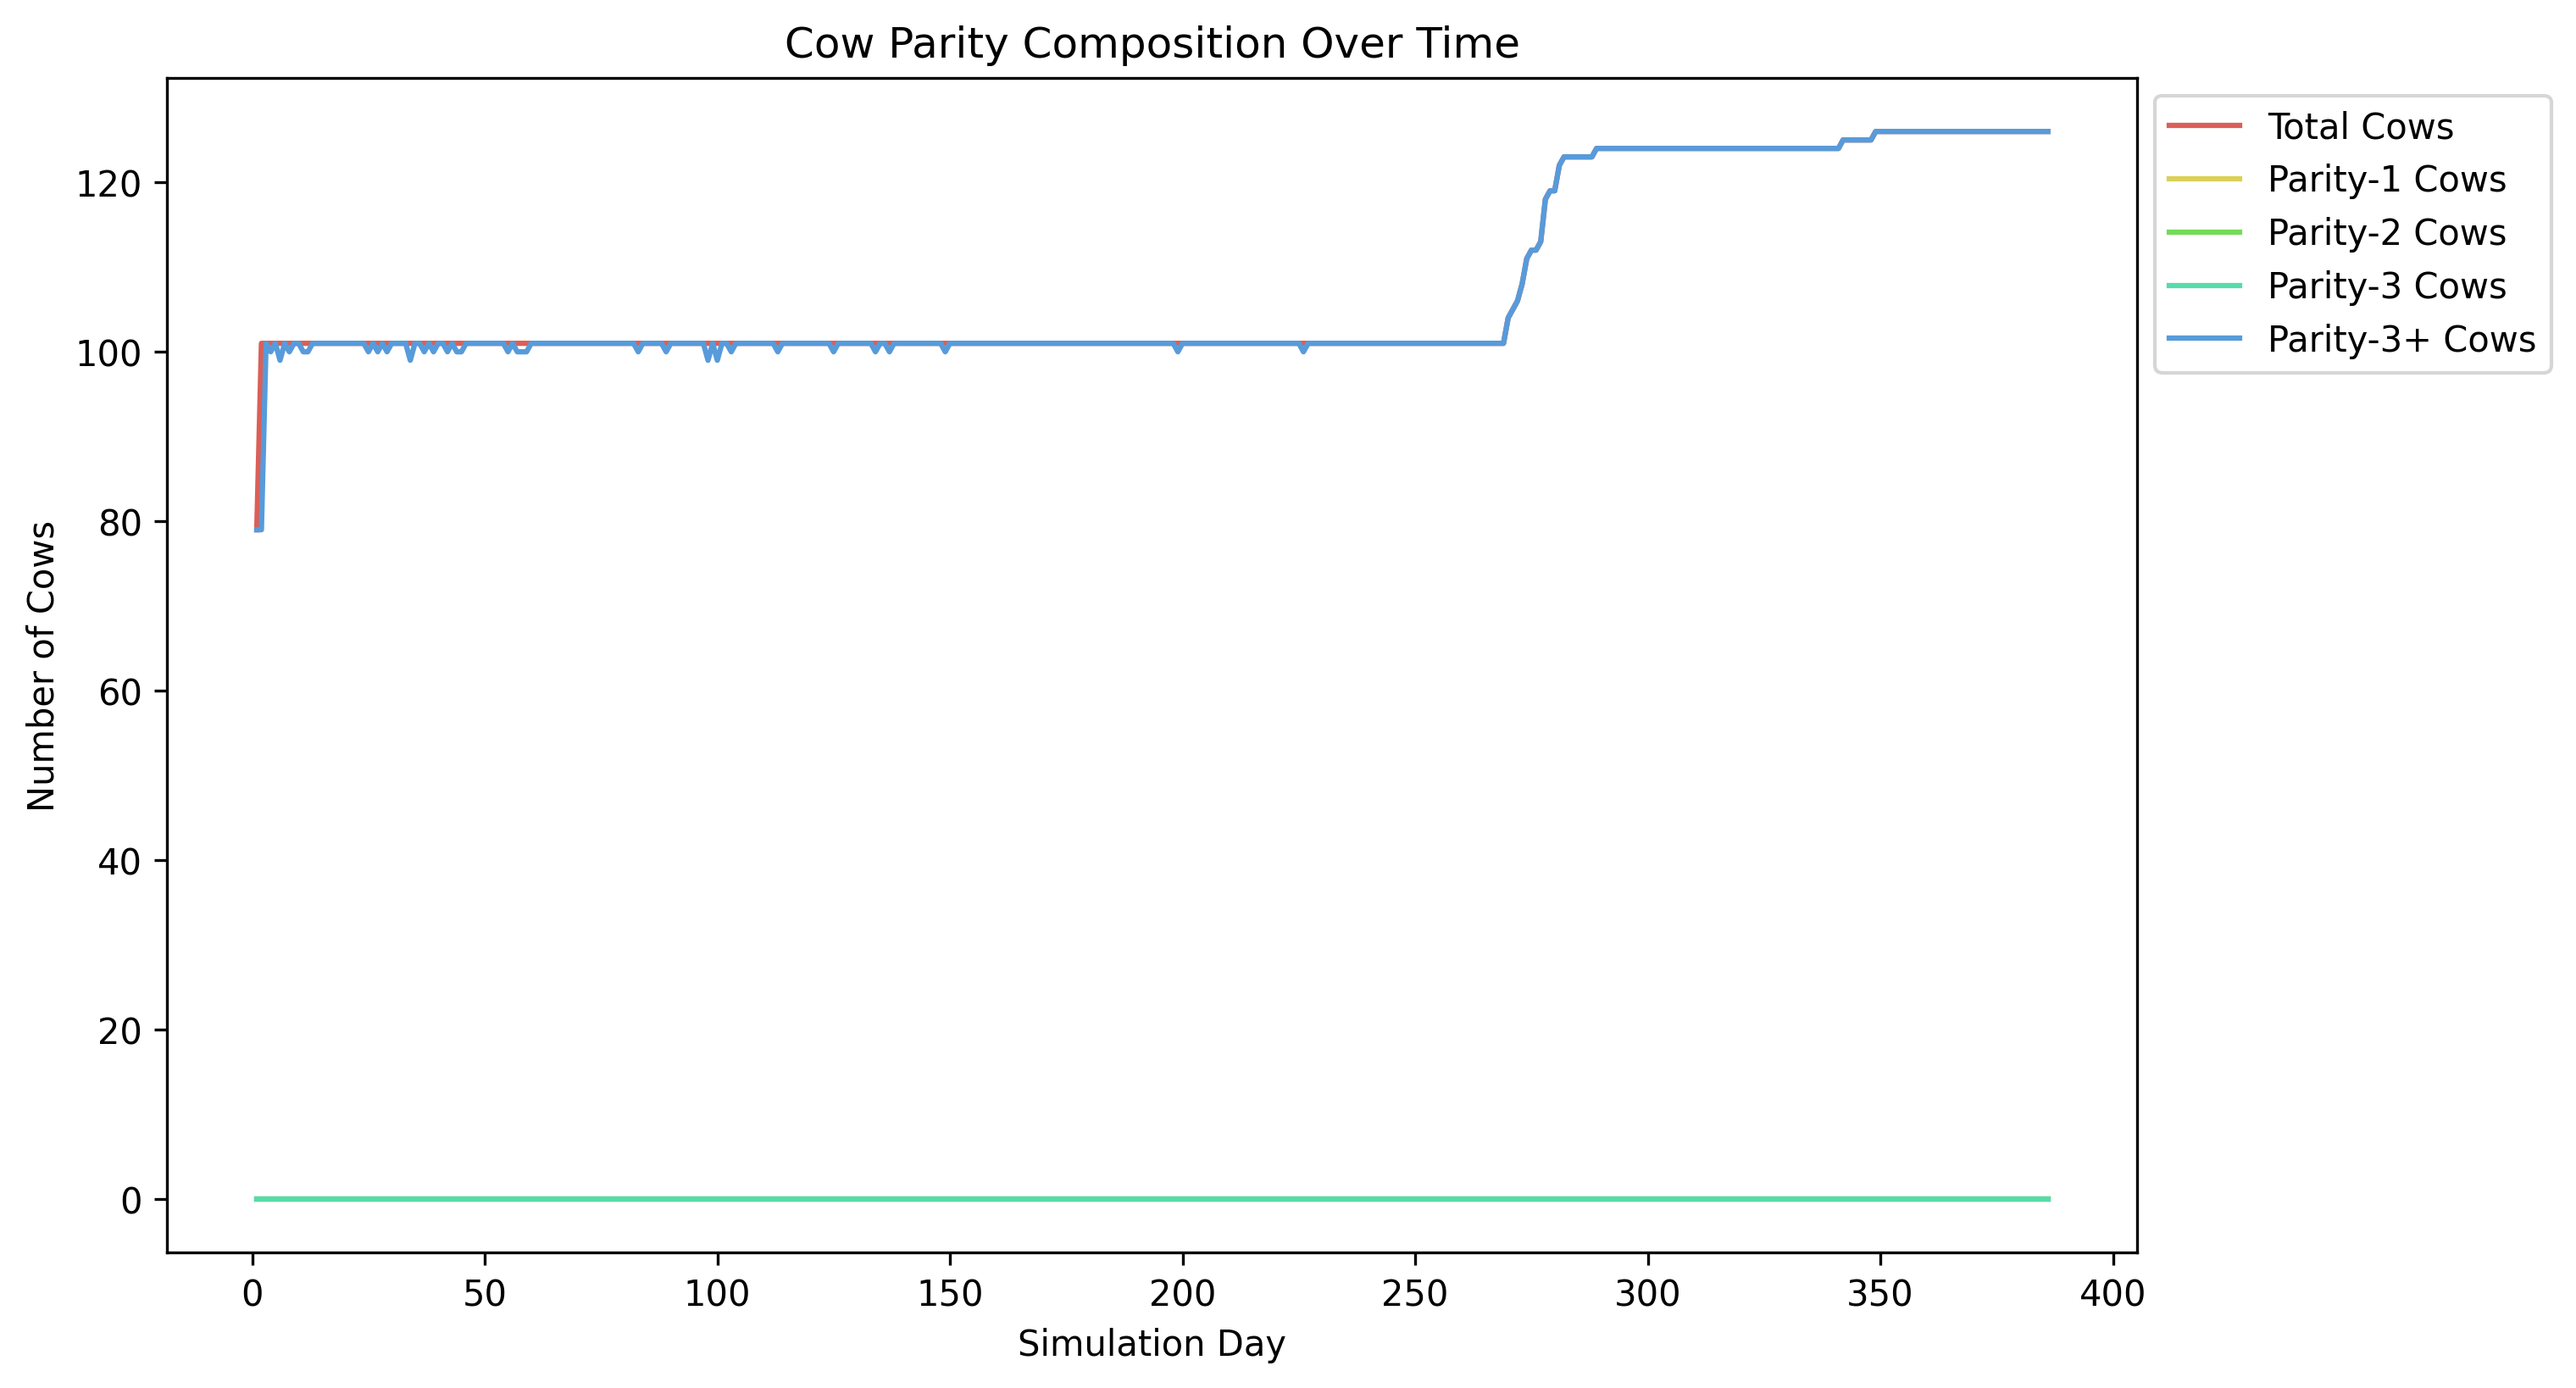
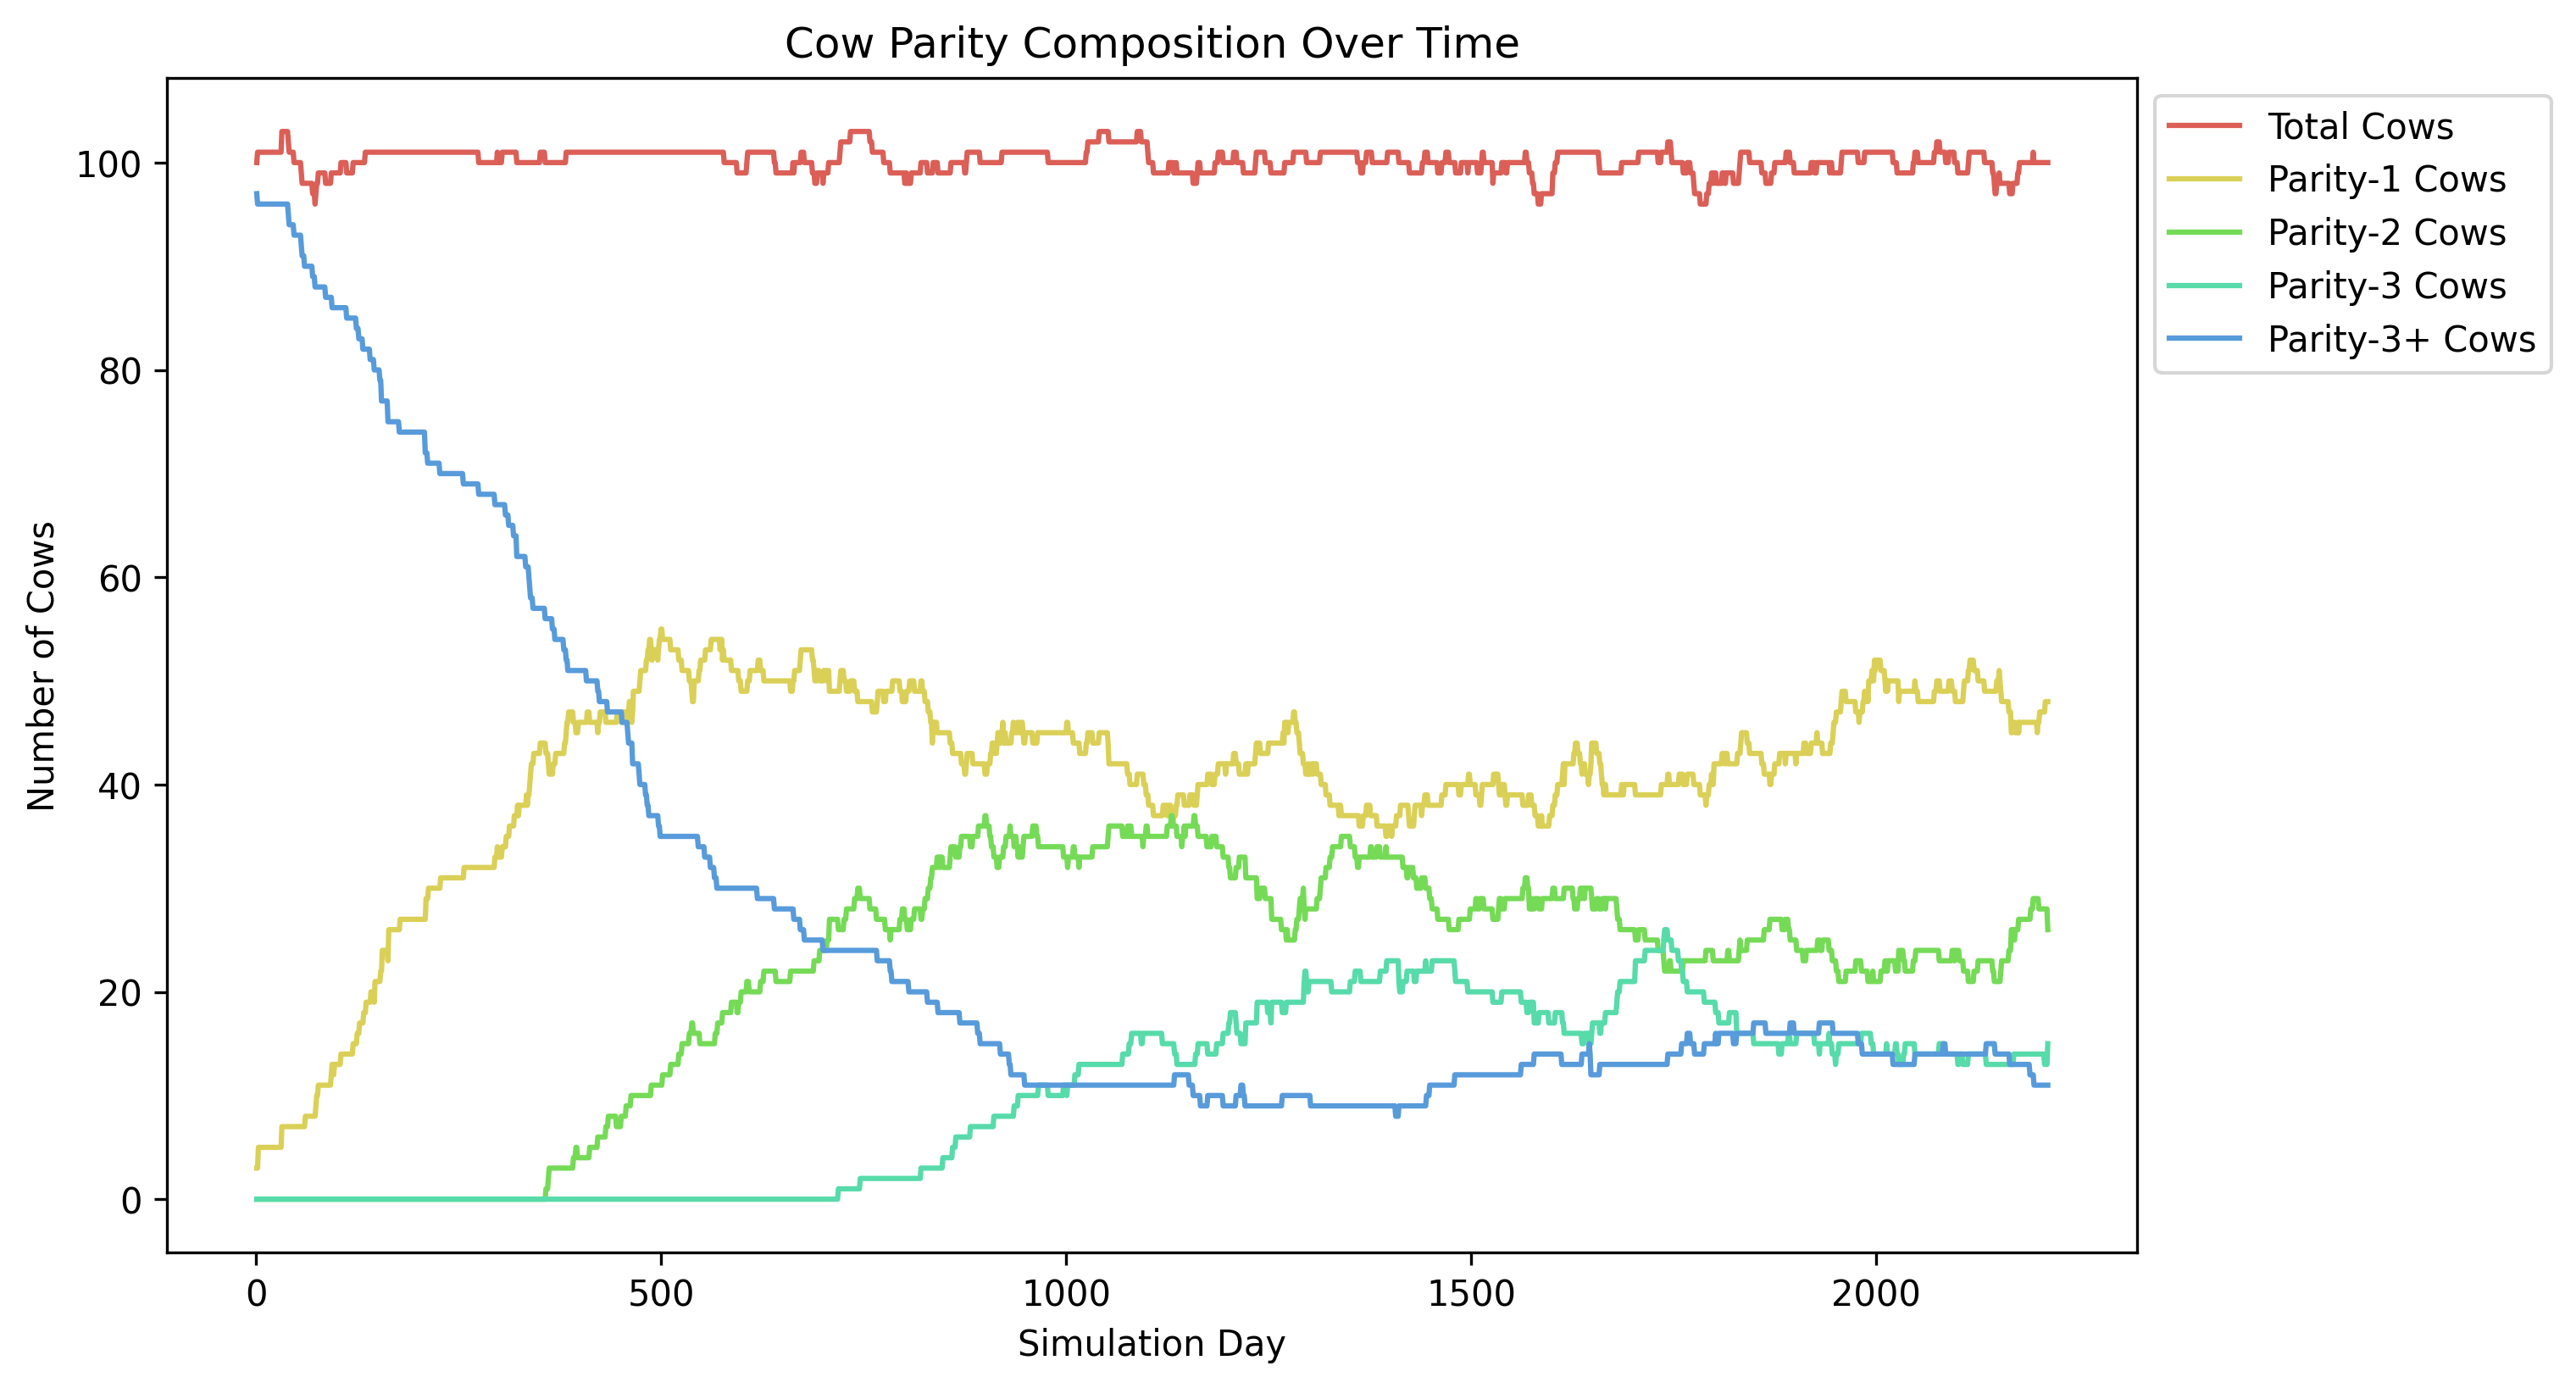
Fixed the init values of days in pref and gest length in heifer2

diff --git a/RUFAS/routines/animal/life_cycle/heiferII.py b/RUFAS/routines/animal/life_cycle/heiferII.py
@@ -90,8 +90,6 @@ class HeiferII(HeiferI):
         self.conception_rate = 0.0
         self.tai_program_start_day = 0
         self.synch_ed_program_start_day = 0
-        self.days_in_preg = 0
-        self.gestation_length = 0.0
         self.abortion_day = None
         self.p_gest_for_calf = 0
 